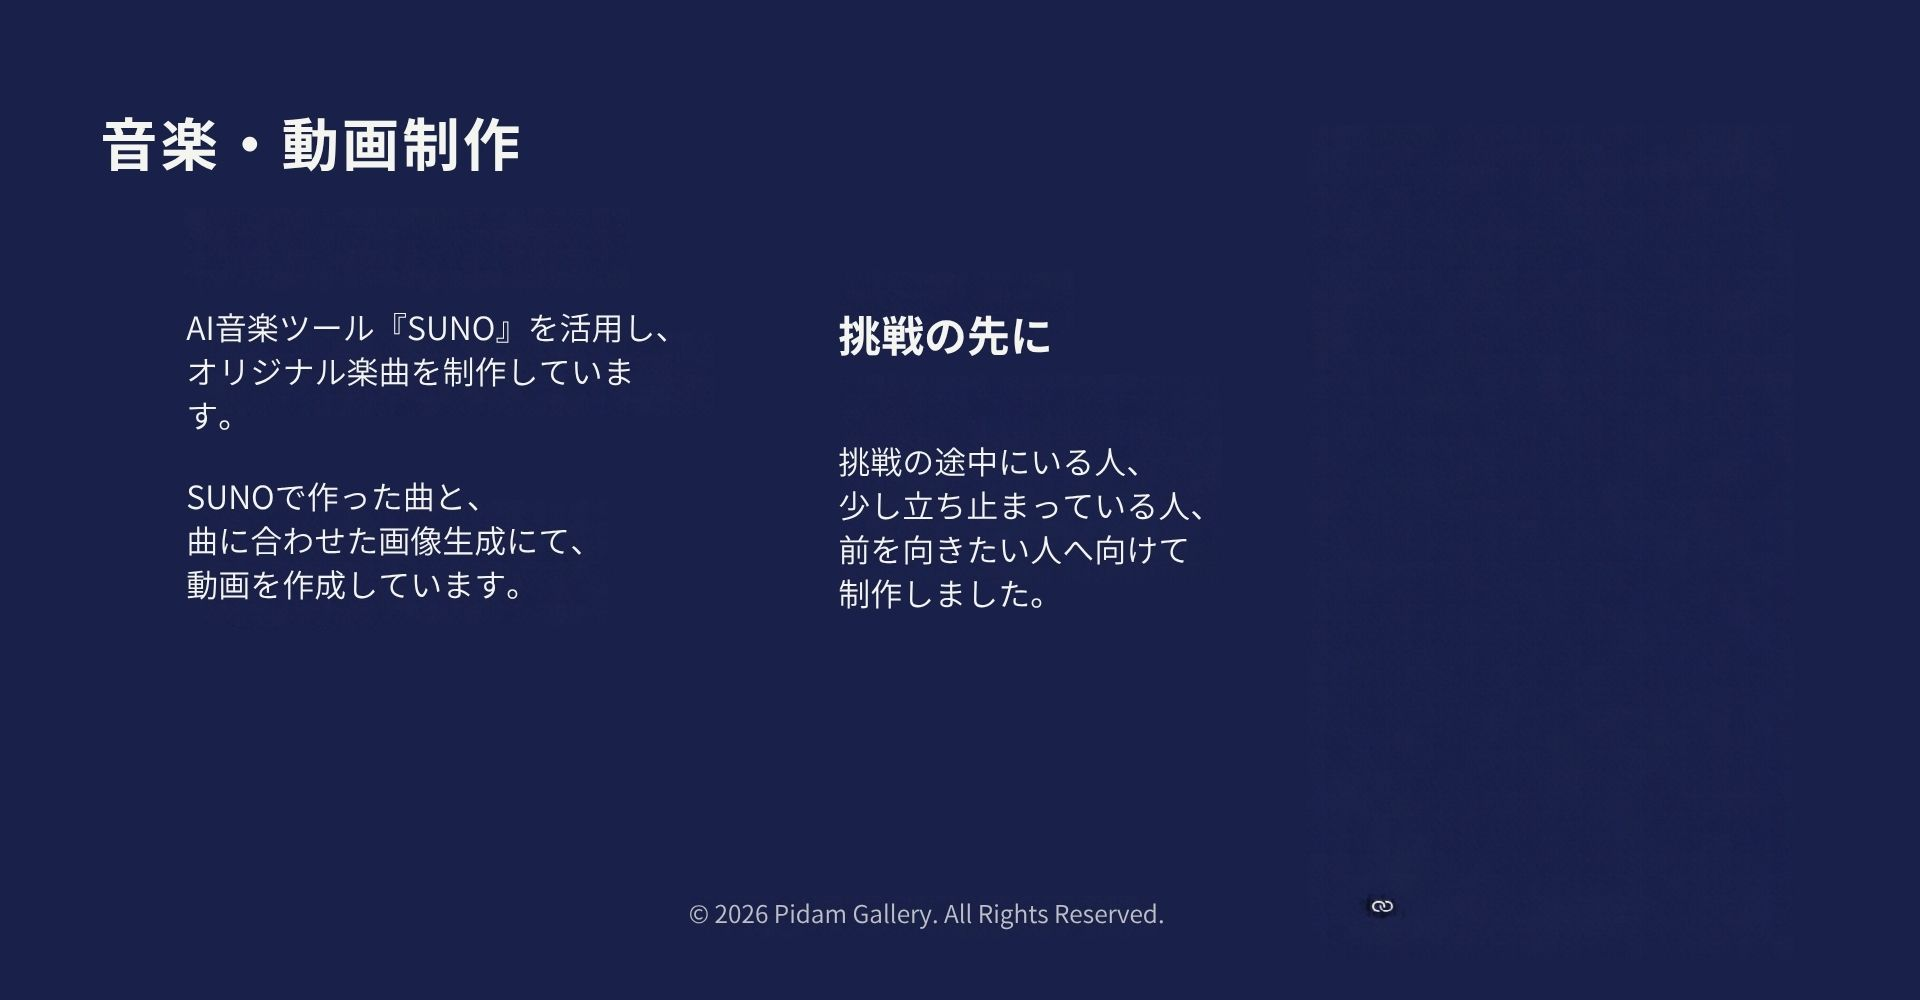
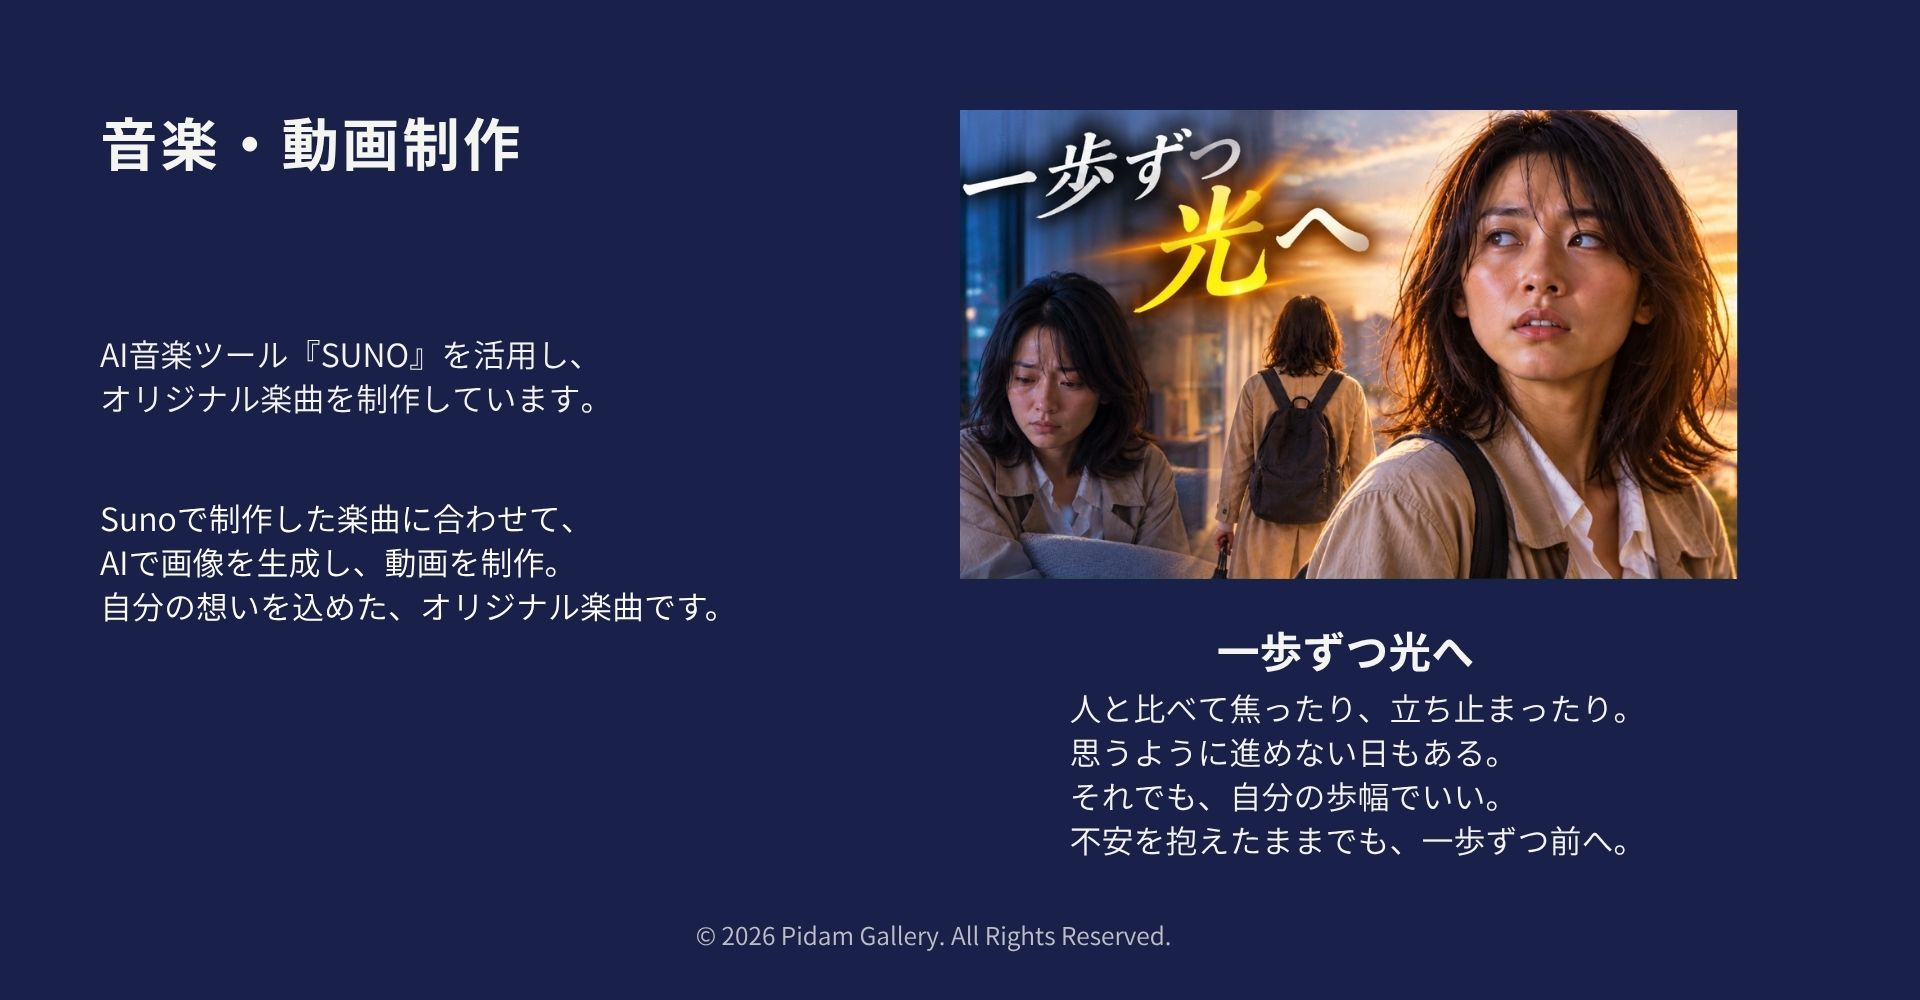
Publish Ippo Zutsu Hikari e music video

diff --git a/activity_music.html b/activity_music.html
@@ -19,9 +19,25 @@ html, body { width: 100%; min-width: 0; background: #192148; }
 }
 .back-btn:hover { background: #26315b; }
 a:focus-visible { outline: 3px solid #ddc791; outline-offset: 3px; }
-.video-slot { position: absolute; left: 65.573%; top: 15%; width: 27.396%; height: 71.6%; }
-.video-slot video { width: 100%; height: 100%; object-fit: contain; background: #192148; }
+.music-artwork { position: relative; }
+.video-trigger, .video-frame {
+ position: absolute; left: 50%; top: 11%; width: 40.52%; height: 47%;
+}
+.video-trigger { display: grid; place-items: center; text-decoration: none; }
+.video-trigger svg { width: clamp(42px, 6vw, 72px); height: auto; filter: drop-shadow(0 2px 7px #0008); }
+.video-trigger:hover svg { filter: brightness(1.15) drop-shadow(0 2px 7px #0008); }
+.video-frame { display: block; border: 0; background: #0a0d1a; }
+.video-direct {
+ position: absolute; top: 58.5%; right: 9.48%; padding: 4px 0;
+ color: #ddc791; font: 12px/1.3 system-ui, sans-serif;
+}
 [hidden] { display: none !important; }
+@media (max-width: 767px) {
+ .screen.music-screen.video-active { display: block; height: auto; min-height: 0; scroll-snap-align: none; }
+ .screen.music-screen.video-active > .page-wrapper { width: 100%; height: auto; aspect-ratio: auto; }
+ .video-frame { position: static; width: calc(100% - 24px); height: auto; aspect-ratio: 16 / 9; margin: 0 auto; }
+ .video-direct { position: static; display: block; width: fit-content; margin: 0 auto; padding: 12px; }
+}
 @media (max-width: 767px) {
  .screen { min-height: 0; display: block; }
  .page-wrapper { width: 100%; }
@@ -53,12 +69,23 @@ body {display:block;}
 </style>
 </head>
 <body>
-<section class="screen" aria-label="音楽・動画制作">
+<section class="screen music-screen" aria-label="音楽・動画制作">
  <main class="page-wrapper" style="--ratio:1.92">
-  <!-- The supplied image is 1920 x 1000; preserve its natural ratio without cropping. -->
-  <img class="bg" src="images/music_準備中.jpg" width="1920" height="1000" alt="音楽・動画制作。SUNOで制作したオリジナル楽曲「一歩ずつ光へ」とAI画像を使った動画をご紹介。動画は準備中。">
-  <!-- Future video: unhide this slot and set the video src to the completed file. -->
-  <div class="video-slot" hidden><video controls playsinline preload="none" aria-label="一歩ずつ光へ"></video></div>
+  <div class="music-artwork">
+   <img class="bg" src="images/music.jpg" width="1920" height="1000"
+    alt="音楽・動画制作。Sunoで制作したオリジナル楽曲「一歩ずつ光へ」。人と比べて焦ったり、立ち止まったり。思うように進めない日もある。それでも、自分の歩幅でいい。不安を抱えたままでも、一歩ずつ前へ。">
+   <a class="video-trigger" href="https://youtu.be/5c9rvlljQXw" target="_blank" rel="noopener noreferrer"
+    aria-label="一歩ずつ光へを再生">
+    <svg viewBox="0 0 68 48" aria-hidden="true" focusable="false">
+     <rect width="68" height="48" rx="12" fill="#c90000"/>
+     <path d="m28 14 18 10-18 10z" fill="#fff"/>
+    </svg>
+   </a>
+  </div>
+  <iframe class="video-frame" hidden data-src="https://www.youtube.com/embed/5c9rvlljQXw?autoplay=1&amp;playsinline=1"
+   title="一歩ずつ光へ ミュージックビデオ" referrerpolicy="strict-origin-when-cross-origin"
+   allow="autoplay; encrypted-media; picture-in-picture; fullscreen" allowfullscreen></iframe>
+  <a class="video-direct" href="https://youtu.be/5c9rvlljQXw" target="_blank" rel="noopener noreferrer" hidden>YouTubeで見る（別タブ）</a>
  </main>
 </section>
 <section class="screen" aria-label="制作のご相談">
@@ -67,5 +94,23 @@ body {display:block;}
   <a class="back-btn" href="activity.html">活動実績一覧に戻る</a>
  </div>
 </section>
+<script>
+const musicScreen = document.querySelector('.music-screen');
+const videoTrigger = musicScreen.querySelector('.video-trigger');
+const videoFrame = musicScreen.querySelector('.video-frame');
+const videoDirect = musicScreen.querySelector('.video-direct');
+
+videoTrigger.addEventListener('click', (event) => {
+ if (event.button !== 0 || event.ctrlKey || event.metaKey || event.shiftKey || event.altKey) return;
+ event.preventDefault();
+ musicScreen.classList.add('video-active');
+ videoFrame.src = videoFrame.dataset.src;
+ videoFrame.hidden = false;
+ videoTrigger.hidden = true;
+ videoDirect.hidden = false;
+ videoFrame.focus();
+ if (window.matchMedia('(max-width: 767px)').matches) videoFrame.scrollIntoView({ block: 'nearest' });
+});
+</script>
 </body>
 </html>
